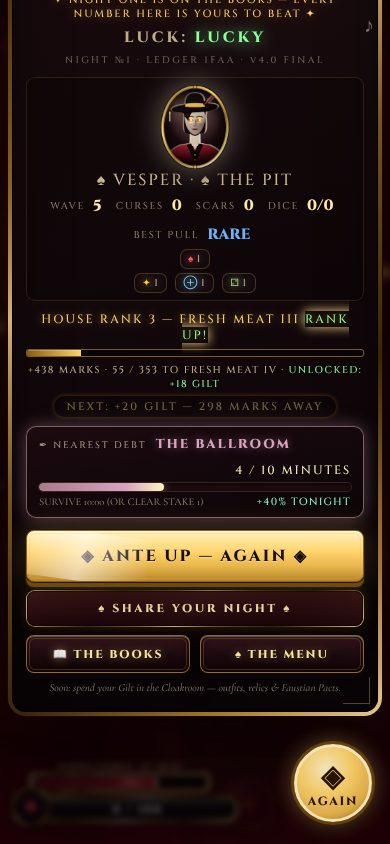
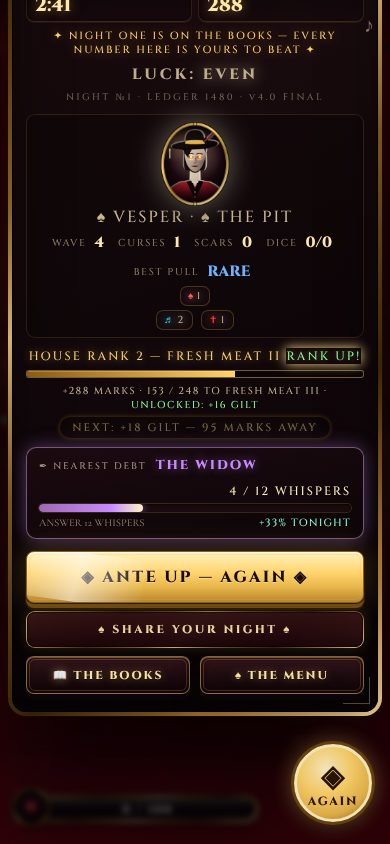
I1 #19: drop the stale Cloakroom line from the ledger
Claude-Session: https://claude.ai/code/session_01LfZkkF7Ex9CahCtvUfnFA3

diff --git a/styles.css b/styles.css
@@ -1656,7 +1656,6 @@ button[id$="Close"]:active{transform:translateY(1px);}
 #gameover .panel>#a3Share{grid-row:12;}
 #gameover .panel>#booksBtn{grid-column:1;grid-row:13;}
 #gameover .panel>#goMenuBtn{grid-column:2;grid-row:13;}
-#gameover .panel>.soon{grid-row:14;}
 /* 1 — the verdict */
 #gameover .result{font-size:26px;letter-spacing:.24em;margin:0;line-height:1.15;text-shadow:0 0 22px rgba(212,33,47,.55),0 2px 0 #000;}
 #gameover .subline{font-size:14px;font-style:italic;margin:2px 0 6px;letter-spacing:.06em;color:#a8998a;}
@@ -1698,7 +1697,6 @@ button[id$="Close"]:active{transform:translateY(1px);}
 #gameover #againBtn::after{background:linear-gradient(100deg,transparent,rgba(255,255,255,.55),transparent);}
 #gameover #againBtn:active{transform:translateY(4px);box-shadow:0 0 0 1px #2a1a06,0 1px 0 #6e4a12,0 3px 8px rgba(0,0,0,.5);}
 #gameover #booksBtn,#gameover #goMenuBtn{font-size:11.5px;padding:10px 8px;opacity:1;}
-#gameover .soon{font-size:11px;margin-top:8px;opacity:.75;}
 @media (max-width:640px){
   #gameover .panel{padding:16px 14px 14px;column-gap:10px;}
   #gameover .panel>.a2scoreLbl,#gameover .panel>#goScore,#gameover .panel>.gilt,#gameover .panel>#goLuck,#gameover .panel>#goSeed,#gameover .panel>#goStats{grid-column:1/-1;grid-row:auto;}
@@ -1706,7 +1704,7 @@ button[id$="Close"]:active{transform:translateY(1px);}
   #gameover .panel>#goStats{grid-row:7;} #gameover .panel>#goLuck{grid-row:8;} #gameover .panel>#goSeed{grid-row:9;}
   #gameover .panel>#goLedger{grid-row:10;} #gameover .panel>#goRank{grid-row:11;} #gameover .panel>#againBtn{grid-row:12;}
   #gameover .panel>#a3Share{grid-row:13;}
-  #gameover .panel>#booksBtn,#gameover .panel>#goMenuBtn{grid-row:14;} #gameover .panel>.soon{grid-row:15;}
+  #gameover .panel>#booksBtn,#gameover .panel>#goMenuBtn{grid-row:14;}
   #gameover .result{font-size:21px;} #gameover .scoreBig{font-size:44px;}
 }
 
@@ -1810,7 +1808,6 @@ button[id$="Close"]:active{transform:translateY(1px);}
 #gameover .panel>#a3Share .a3ShareBtn:hover{background:linear-gradient(180deg,rgba(74,18,28,.96),rgba(30,8,12,.97)) padding-box,var(--a2-brass) border-box;}
 #gameover .panel>#a3Share .a3ShareBtn.done{color:#8bffd0;}
 /* the stale 'Soon: Cloakroom' footnote yields its line on short screens */
-@media (max-height:760px){ #gameover .panel>.soon{display:none;} }
 body:has(#a3Share .a3ShareOut.go) #a2Notes{opacity:.12;transition:opacity .2s;}
 
 /* ==== A4 ==== THE POCKET CASINO — touch controls, phone layout, safe areas (sizing/positioning only) */
@@ -2451,7 +2448,6 @@ body.b2endless #hud #b2Mult{box-shadow:0 0 0 1px #140a03,0 0 0 2px rgba(154,92,2
   #gameover .panel>#goMenuBtn{grid-column:5 / 7;grid-row:12;}
   #gameover .panel>#a3Share .a3ShareBtn{width:100%;padding-left:6px;padding-right:6px;white-space:nowrap;letter-spacing:.12em;font-size:11.5px;}
   #gameover .panel>#a3Share,#gameover .panel>#booksBtn,#gameover .panel>#goMenuBtn{margin-top:8px;}
-  #gameover .panel>.soon{display:none;}
   #gameover .result{font-size:24px;}
   #gameover .subline{margin:0 0 4px;}
   #a2Epitaph{margin-bottom:6px;padding:5px 14px;}

diff --git a/index.html b/index.html
@@ -219,7 +219,6 @@
       <button class="btn anteUp" id="againBtn">◈ ANTE UP — AGAIN ◈</button>
       <button class="btn ghostBtn" id="booksBtn">📖 THE BOOKS</button>
       <button class="btn ghostBtn" id="goMenuBtn">♠ THE MENU</button>
-      <div class="soon">Soon: spend your Gilt in the Cloakroom — outfits, relics & Faustian Pacts.</div>
     </div>
   </div>
 </div>
